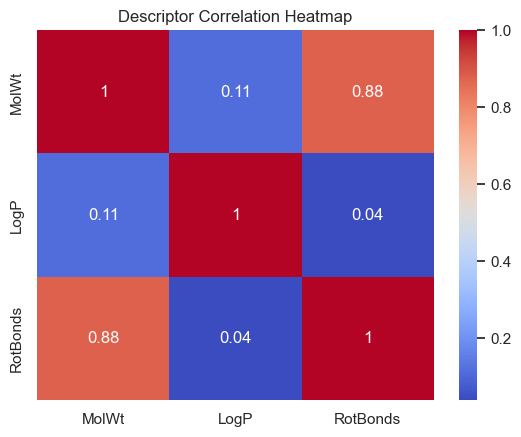
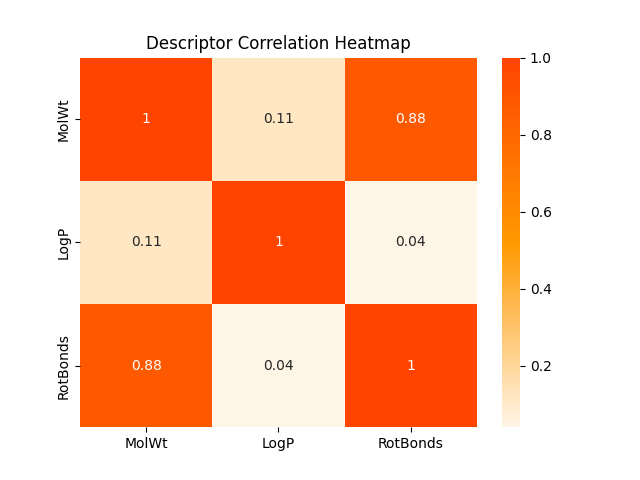
model, data changes

diff --git a/data/data visualization.py b/data/data visualization.py
@@ -4,25 +4,9 @@ from collections import Counter
 from rdkit import Chem
 from rdkit.Chem import Descriptors
 import pandas as pd
+from matplotlib.colors import LinearSegmentedColormap
 
 sns.set(style="whitegrid")
-
-def plot_mol_weights_histogram(df):
-    def safe_molwt(smiles: str):
-        mol = Chem.MolFromSmiles(smiles)
-        if mol is not None:
-            return Descriptors.MolWt(mol)
-        return None
-
-    df['MolWt'] = df['mol'].apply(safe_molwt)
-    df_no_nan = df.dropna(subset=['MolWt'])
-
-    plt.hist(df_no_nan['MolWt'], bins=50, color='steelblue')
-    plt.xlabel("Molecular Weight")
-    plt.ylabel("Count")
-    plt.title("Molecular Weight Distribution")
-    plt.grid(True)
-    plt.show()
 
 def plot_smiles_histogram(df):
     df['smiles_len'] = df['mol'].apply(len)
@@ -34,7 +18,19 @@ def plot_smiles_histogram(df):
     plt.grid(True)
     plt.show()
 
-def print_top_atom_types(df, smiles_col='mol', top_n=10):
+def class_distribution_barplot(df, label_col='Class'):
+    class_counts = df[label_col].value_counts().sort_index()
+    class_names = class_counts.index.astype(str)
+
+    plt.figure(figsize=(5, 4.5))
+    plt.bar(class_names, class_counts, color=['#ff4400', "#5F0E85"])
+    plt.xlabel("Class")
+    plt.ylabel("Count")
+    plt.title("Class distribution (Inactive vs Active)")
+    plt.grid(axis='y', linestyle='-', alpha=0.1)
+    plt.show()
+
+def plot_top_atom_types(df, smiles_col='mol', top_n=10):
     def extract_atom_symbols(smiles: str):
         mol = Chem.MolFromSmiles(smiles)
         if mol is None:
@@ -45,11 +41,30 @@ def print_top_atom_types(df, smiles_col='mol', top_n=10):
     for s in df[smiles_col]:
         atom_counter.update(extract_atom_symbols(s))
     common_atoms = atom_counter.most_common(top_n)
+    atoms, counts = zip(*common_atoms)
 
-    print(f"Top {top_n} Atom Types:")
-    for atom, count in common_atoms:
-        print(f"{atom}: {count}")
-    return common_atoms
+    plt.bar(atoms, counts, color='#ff4400')
+    plt.xlabel("Atom Type")
+    plt.ylabel("Frequency")
+    plt.title(f"Top {top_n} Atom Types in Dataset")
+    plt.grid(axis='y', linestyle='--', alpha=0.2)
+    plt.show()
+
+def mol_weights_histogram(df):
+    def safe_molwt(smiles: str):
+        mol = Chem.MolFromSmiles(smiles)
+        if mol is not None:
+            return Descriptors.MolWt(mol)
+        return None
+    df['MolWt'] = df['mol'].apply(safe_molwt)
+    df_no_nan = df.dropna(subset=['MolWt'])
+
+    plt.hist(df_no_nan['MolWt'], bins=50, color='steelblue')
+    plt.xlabel("Molecular Weight")
+    plt.ylabel("Count")
+    plt.title("Molecular Weight Distribution")
+    plt.grid(True)
+    plt.show()
 
 def plot_descriptor_correlation_heatmap(df):
     def calc_descriptors(smiles):
@@ -61,22 +76,12 @@ def plot_descriptor_correlation_heatmap(df):
             Descriptors.MolLogP(mol),
             Descriptors.NumRotatableBonds(mol)
         ]
-
     desc = df['mol'].apply(calc_descriptors)
     desc_df = pd.DataFrame(desc.tolist(), columns=['MolWt', 'LogP', 'RotBonds'])
     desc_df = desc_df.dropna()
     corr = desc_df.corr()
 
-    sns.heatmap(corr, annot=True, cmap='coolwarm')
+    orange_cmap = LinearSegmentedColormap.from_list("custom_orange", ["#fff5e6", "#ff9900", "#ff4400"])
+    sns.heatmap(corr, annot=True, cmap=orange_cmap)
     plt.title("Descriptor Correlation Heatmap")
-    plt.show()
-
-def plot_atom_types(common_atoms):
-    atoms, counts = zip(*common_atoms)
-
-    plt.bar(atoms, counts, color='green')
-    plt.xlabel("Atom Type")
-    plt.ylabel("Frequency")
-    plt.title("Top 10 Atom Types in Dataset")
-    plt.grid(True)
     plt.show()
